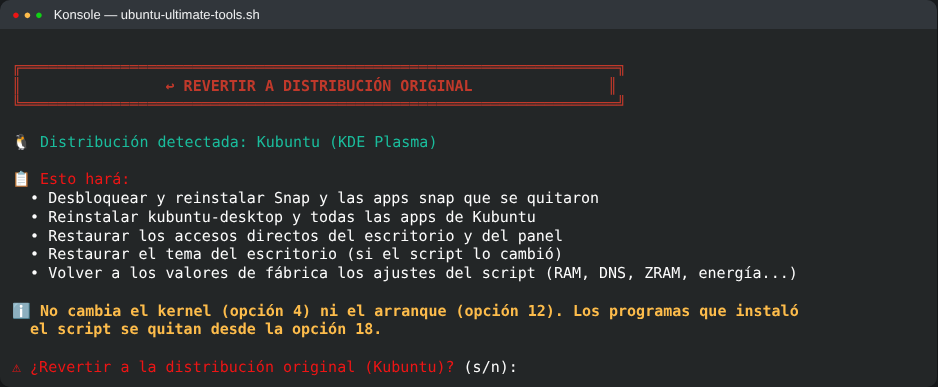
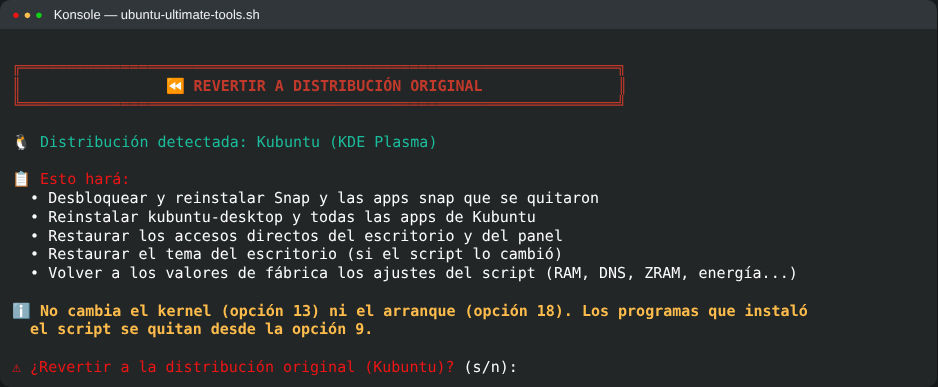
Menú principal agrupado y alineación de todos los menús (#16)
* Renombrar a Ubuntu Ultimate Tools, con migración automática

- El script pasa a llamarse ubuntu-ultimate-tools.sh (ejecutable) y el
  banner, la ayuda, el registro y la documentación usan el nuevo nombre.
- Los archivos de configuración internos también se renombran
  (~/.local/share, /etc/ubuntu-ultimate-tools, sysctl, BBR, DNS, Wi-Fi,
  scripts y fondo de GRUB, copia de /etc/default/grub).
- migrate_from_kubuntu_lite pasa una sola vez la configuración de las
  versiones anteriores ("Kubuntu Lite") a los nombres nuevos, sin cambiar
  su contenido: reescribe los filtros de GRUB que llevan las rutas dentro,
  actualiza la ruta del fondo y regenera el menú si hizo falta. Si no hay
  nada viejo, no hace nada.

* Compatibilidad con todos los sabores de Ubuntu y seguro al eliminar apps

- Detecta el sabor y el escritorio al iniciar (Ubuntu completo o mínimo,
  Kubuntu, Xubuntu, Lubuntu, MATE, Budgie, Cinnamon, Unity, Studio,
  Edubuntu, Kylin y Server) por su meta-paquete o, si se quitó, por su
  escritorio. El banner muestra lo detectado.
- Listas de apps para eliminar por escritorio, sacadas de los
  meta-paquetes reales de cada sabor y sin piezas del escritorio (gestor
  de archivos, configuración, panel, sesión, ventanas, red, sonido,
  energía, notificaciones, portales, actualizaciones). Se quitan de la
  lista de Kubuntu las librerías qml-module-*, que arrastraban Plasma.
- Seguro de dependencias: antes de eliminar se simula qué quitaría apt; si
[…]

Changed region(s): [[0.3092, 0.7752, 0.8657, 0.8682], [0.1546, 0.186, 0.5256, 0.2481], [0.6493, 0.186, 0.6802, 0.2481]]

diff --git a/README.md b/README.md
@@ -50,7 +50,7 @@ sin importar el sabor. Al iniciar **detecta qué sabor y qué escritorio tienes*
 | **Ubuntu Server** | sin escritorio | Kernel, GRUB, red, RAM, Snap y actualizaciones |
 
 El sabor se detecta por su meta-paquete (`kubuntu-desktop`, `xubuntu-desktop`...). Si lo quitaste con la
-opción 2, se reconoce por su escritorio. Las opciones que no aplican a tu escritorio lo explican y no hacen nada.
+opción 11, se reconoce por su escritorio. Las opciones que no aplican a tu escritorio lo explican y no hacen nada.
 
 ---
 
@@ -159,11 +159,11 @@ Shift derecho + F12 oculta el panel · Shift izquierdo + F2 pausa/reanuda la gra
 - **Proton-GE**: la última versión se descarga de la página oficial del proyecto, se comprueba que llegó
   entera (suma SHA-512) y se instala en `compatibilitytools.d`. Se elige por juego en
   *Propiedades → Compatibilidad*. Funciona también con Steam de Flatpak.
-- Se quitan desde la opción 18: Steam en "Quitar programas" y Proton-GE en "Quitar Proton-GE".
+- Se quitan desde la opción 9: Steam en "Quitar programas" y Proton-GE en "Quitar Proton-GE".
 
 ---
 
-## 🔧 Arranque: reparar y personalizar GRUB/EFI (opción 12)
+## 🔧 Arranque: reparar y personalizar GRUB/EFI (opción 18)
 
 Todo lo hace el propio script, sin instalar programas externos.
 
@@ -192,7 +192,7 @@ ejecuta `<script>_ubuntu_ultimate_tools`, que lo llama y quita las entradas de l
 (sin entradas duplicadas) hasta que se vuelva a usar la opción. No se pueden ocultar todas las
 entradas de tu sistema.
 
-Si usaste **Grub Customizer**, la opción 9 → 7 deja `/etc/grub.d` como lo instala Ubuntu: devuelve
+Si usaste **Grub Customizer**, la opción 18 → 9 → 7 deja `/etc/grub.d` como lo instala Ubuntu: devuelve
 cada script a su nombre, quita sus `*_proxy` (que duplican entradas) y guarda antes una copia
 completa en `/etc/grub.d.antes-de-deshacer-grub-customizer-<fecha>`.
 
@@ -206,9 +206,9 @@ La reparación automática desde Live USB:
 
 #### Prepárate antes de necesitarlo
 
-Con el sistema funcionando, usa la opción 12 → 14 y la 12 → 15. Son tres pasos:
+Con el sistema funcionando, usa la opción 18 → 14 y la 18 → 15. Son tres pasos:
 
-1. **Tarjeta de rescate (12 → 14).** Calcula los comandos exactos para tu PC: el nombre que GRUB le da a
+1. **Tarjeta de rescate (18 → 14).** Calcula los comandos exactos para tu PC: el nombre que GRUB le da a
    tu partición (por ejemplo `(hd0,gpt2)`), su UUID y las rutas del kernel. Funciona con ext4, btrfs y
    `/boot` en partición aparte.
    - **Sácale una foto con el celular**: cuando aparece `grub>` no puedes abrir archivos de tu disco.
@@ -217,7 +217,7 @@ Con el sistema funcionando, usa la opción 12 → 14 y la 12 → 15. Son tres pa
    - Se actualiza sola cada vez que el script cambia GRUB.
 2. **Pendrive.** En esa misma opción, el script copia **la tarjeta y el propio script** al pendrive que
    elijas. Como el repositorio es privado, desde un Live USB no se podría descargar sin iniciar sesión.
-3. **Arranque de respaldo UEFI (12 → 15).** El firmware guarda una lista de sistemas para arrancar, y
+3. **Arranque de respaldo UEFI (18 → 15).** El firmware guarda una lista de sistemas para arrancar, y
    a veces la pierde: al actualizar la BIOS, por un reseteo o al cambiar el disco de PC. Entonces la PC
    no arranca o va directo a Windows, aunque Ubuntu esté bien.
    - El script copia el arranque de Ubuntu a la ruta de emergencia `EFI/BOOT/BOOTX64.EFI`, la que el
@@ -226,7 +226,7 @@ Con el sistema funcionando, usa la opción 12 → 14 y la 12 → 15. Son tres pa
    - Funciona con Secure Boot y se mantiene al día con cada actualización (un hook de apt).
    - Si esa ruta la usa Windows, no se toca. Si la usaba otro sistema, se guarda una copia y al
      quitarlo vuelve como estaba.
-   - La reparación completa (12 → 3) también lo ofrece.
+   - La reparación completa (18 → 3) también lo ofrece.
 
 Ten a mano también un **USB de instalación de tu sabor de Ubuntu** (el Live USB).
 
@@ -241,7 +241,7 @@ Ten a mano también un **USB de instalación de tu sabor de Ubuntu** (el Live US
 
 ```bash
 cd /media/$USER/PENDRIVE
-bash ubuntu-ultimate-tools.sh      # opción 12 → 10
+bash ubuntu-ultimate-tools.sh      # opción 18 → 10
 ```
 
 - Se usa `bash ubuntu-ultimate-tools.sh` y no `./ubuntu-ultimate-tools.sh` porque los pendrives FAT32/exFAT
@@ -254,14 +254,14 @@ bash ubuntu-ultimate-tools.sh      # opción 12 → 10
 
 ## ☑ Selección con barra espaciadora
 
-En "Eliminar aplicaciones" (opción 1) y "Software opcional" (opción 8) las listas usan casillas:
+En "Eliminar aplicaciones" (opción 3) y "Software opcional" (opción 6) las listas usan casillas:
 **Espacio** marca o desmarca, **flechas** para moverse, **Enter** para aceptar. La lista de eliminación
 solo muestra las apps instaladas, y la de software marca las que ya tienes. Si `whiptail` no está
 disponible, se vuelve a la selección escribiendo números.
 
 ---
 
-## ↩ Deshacer optimizaciones (opción 18)
+## ↩ Deshacer optimizaciones (opción 9)
 
 - **Quitar programas instalados por el script**, con casillas. El script anota en
   `~/.local/share/ubuntu-ultimate-tools/paquetes-instalados.txt` solo los programas que **no tenías antes**;
@@ -276,7 +276,7 @@ disponible, se vuelve a la selección escribiendo números.
   flatpak-builder de una vez, con doble confirmación y respaldos antes. Tus proyectos, tus claves de firma y
   tus apps Flatpak no se tocan.
 - **Restaurar todos los ajustes** de una vez, sin desinstalar programas. "Revertir a
-  distribución original" (opción 9) también lo hace.
+  distribución original" (opción 10) también lo hace.
 
 ---
 
@@ -284,7 +284,7 @@ En todos los menús y submenús, **0** vuelve al menú anterior (en el principal
 
 ---
 
-## 🖥 Información del sistema y hardware (opción 19)
+## 🖥 Información del sistema y hardware (opción 2)
 
 | | Opción | Qué muestra |
 |---|---|---|
@@ -312,11 +312,11 @@ En todos los menús y submenús, **0** vuelve al menú anterior (en el principal
 - Los `.deb` externos (VSCode, Chrome, Discord) se descargan en paralelo.
 - `apt update` se ejecuta una vez por sesión (o se omite si el sistema lo hizo hace menos de 30 minutos).
 - Cambiar de kernel no regenera GRUB: se usa `GRUB_DEFAULT=saved` + `grub-set-default`.
-- La opción 2 permite desactivar la indexación de manuales (`man-db`), lo más lento de cada instalación.
+- La opción 11 permite desactivar la indexación de manuales (`man-db`), lo más lento de cada instalación.
 
 ---
 
-## ⚡ Cambio de kernel
+## ⚡ Cambio de kernel (opción 13)
 
 | Opción | Kernel | Notas |
 |--------|--------|-------|
@@ -340,12 +340,12 @@ Dentro de la opción 3:
 
 ---
 
-## ↩ Revertir a distribución original (opción 9)
+## ↩ Revertir a distribución original (opción 10)
 
 Deja tu Ubuntu como vino de fábrica, sea cual sea el sabor (muestra cuál detectó antes de empezar):
 
 - Reinstala el meta-paquete de tu sabor **con todas sus aplicaciones** (`kubuntu-desktop`, `xubuntu-desktop`,
-  `ubuntu-desktop-minimal`...). Si lo quitaste con la opción 2, recuerda cuál era: un Ubuntu mínimo no se
+  `ubuntu-desktop-minimal`...). Si lo quitaste con la opción 11, recuerda cuál era: un Ubuntu mínimo no se
   convierte en uno completo.
 - Reinstala todo lo que el script eliminó (incluidas dependencias); la lista está en
   `~/.local/share/ubuntu-ultimate-tools/paquetes-eliminados.txt`.
@@ -358,12 +358,12 @@ Deja tu Ubuntu como vino de fábrica, sea cual sea el sabor (muestra cuál detec
 - Vuelve a fábrica todos los ajustes (RAM, DNS, ZRAM, energía, indexador...).
 - En Ubuntu Server hace lo que aplica: paquetes, Snap y ajustes.
 
-No cambia el kernel (opción 4) ni el arranque (opción 12). Los programas que instaló el script se quitan
-desde la opción 18.
+No cambia el kernel (opción 13) ni el arranque (opción 18). Los programas que instaló el script se quitan
+desde la opción 9.
 
 ---
 
-## 📦 Software opcional (opción 8)
+## 📦 Software opcional (opción 6)
 
 | Programa | Para qué sirve | Origen |
 |----------|----------------|--------|
@@ -406,9 +406,9 @@ cd mi-proyecto
 
 - **NDK y CMake** (proyectos con C/C++): Gradle baja solo la versión exacta que pide el proyecto,
   porque el script ya aceptó las licencias del SDK.
-- **Actualizar**: vuelve a usar la opción 8 → Compilar APK y se actualiza el SDK.
-- **Quitar**: opción 18 → 7 (Android Studio y SDK; tus claves de firma en `~/.android` no se tocan)
-  y 18 → 8 (SDK de Flatpak).
+- **Actualizar**: vuelve a usar la opción 6 → Compilar APK y se actualiza el SDK.
+- **Quitar**: opción 9 → 7 (Android Studio y SDK; tus claves de firma en `~/.android` no se tocan)
+  y 9 → 8 (SDK de Flatpak).
 
 ### 🐳 Compilar con Docker
 
@@ -424,7 +424,7 @@ docker run --rm -v "$PWD":/home/source mi-compilador  # la ruta la indica el REA
 - Para usar `docker` sin `sudo`, el script ofrece sumar tu usuario al grupo `docker` (avisa que ese grupo
   equivale a ser administrador).
 - Si había configuración de un Docker anterior, se guarda un respaldo antes de instalar.
-- **Quitar** (opción 18 → 9): solo los programas, conservando imágenes y volúmenes; o la **eliminación
+- **Quitar** (opción 9 → 9): solo los programas, conservando imágenes y volúmenes; o la **eliminación
   nuclear**, que borra todo (datos, configuración y grupo) después de guardar un respaldo de la
   configuración y, si quieres, de tus volúmenes.
 
@@ -437,7 +437,7 @@ Android (`~/.android`). Nunca se pisa un respaldo anterior.
 
 ---
 
-## 🗑 Aplicaciones que puedes eliminar (opción 1)
+## 🗑 Aplicaciones que puedes eliminar (opción 3)
 
 La lista sale de los **meta-paquetes reales de cada sabor**, con dos filtros:
 
@@ -463,13 +463,13 @@ graph LR
     E --> F[Reiniciar]
 ```
 
-Si algo no te convence, la opción 18 deshace optimizaciones y quita programas, y la 9 vuelve a la distribución original.
+Si algo no te convence, la opción 9 deshace optimizaciones y quita programas, y la 10 vuelve a la distribución original.
 
 ---
 
 ## 🛡 Seguridad
 
-- ✅ **Reversible**: cada ajuste se puede deshacer (opción 18) y todo se puede revertir (opción 9).
+- ✅ **Reversible**: cada ajuste se puede deshacer (opción 9) y todo se puede revertir (opción 10).
 - ✅ **Confirmaciones**: cada acción importante pide confirmación y muestra qué se va a cambiar.
 - ✅ **Seguro de dependencias**: nunca quita una app que arrastre piezas esenciales del sistema.
 - ✅ **Copias antes de tocar el arranque**: `/etc/default/grub` se guarda antes del primer cambio, y `/etc/grub.d` entero antes de deshacer Grub Customizer.
@@ -499,7 +499,7 @@ Firefox y la tienda Snap se eliminarán. En Ubuntu `apt install firefox` solo in
 
 **¿Cómo vuelvo atrás?**
 
-Para quitar ajustes o programas sueltos, usa la opción 18. Para volver del todo, la opción 9: reinstala el meta-paquete de tu sabor con todas sus apps y restaura Snap.
+Para quitar ajustes o programas sueltos, usa la opción 9. Para volver del todo, la opción 10: reinstala el meta-paquete de tu sabor con todas sus apps y restaura Snap.
 
 **¿Usaba la versión anterior, "Kubuntu Lite"?**
 

diff --git a/screenshots/README.md b/screenshots/README.md
@@ -13,63 +13,57 @@ sabor y el escritorio detectados, y las listas muestran solo lo que está instal
 
 ---
 
-## Eliminar aplicaciones (opción 1) — lista con casillas
+## Información del sistema y hardware (opción 2)
 
-![Eliminar aplicaciones (opción 1) — lista con casillas](02-eliminar-apps.png)
-
----
-
-## Optimizar GPU (opción 3)
-
-![Optimizar GPU (opción 3)](03-gpu.png)
+![Información del sistema y hardware (opción 2)](14-informacion-sistema.png)
 
 ---
 
-## Optimizar kernel (opción 4)
+## Resumen rápido del sistema (opción 2 → 1)
 
-![Optimizar kernel (opción 4)](04-kernel.png)
-
----
-
-## Arranque: reparar y personalizar GRUB/EFI (opción 12)
-
-![Arranque: reparar y personalizar GRUB/EFI (opción 12)](05-arranque-grub.png)
+![Resumen rápido del sistema (opción 2 → 1)](15-resumen-sistema.png)
 
 ---
 
-## Tarjeta de rescate de tu PC (opción 12 → 14)
+## Eliminar aplicaciones (opción 3) — lista con casillas
 
-![Tarjeta de rescate de tu PC (opción 12 → 14)](17-tarjeta-rescate.png)
-
----
-
-## Personalizar el menú de GRUB (opción 12 → 9)
-
-![Personalizar el menú de GRUB (opción 12 → 9)](06-personalizar-grub.png)
+![Eliminar aplicaciones (opción 3) — lista con casillas](02-eliminar-apps.png)
 
 ---
 
-## Ocultar entradas del menú de GRUB (opción 12 → 9 → 1)
+## Quitar accesos directos (opción 5)
 
-![Ocultar entradas del menú de GRUB (opción 12 → 9 → 1)](07-ocultar-entradas-grub.png)
-
----
-
-## Instalar software opcional (opción 8) — lista con casillas
-
-![Instalar software opcional (opción 8) — lista con casillas](08-software-opcional.png)
+![Quitar accesos directos (opción 5)](09-accesos-directos.png)
 
 ---
 
-## Revertir a distribución original (opción 9)
+## Instalar software opcional (opción 6) — lista con casillas
 
-![Revertir a distribución original (opción 9)](16-revertir.png)
+![Instalar software opcional (opción 6) — lista con casillas](08-software-opcional.png)
 
 ---
 
-## Quitar accesos directos (opción 14)
+## Deshacer optimizaciones (opción 9)
 
-![Quitar accesos directos (opción 14)](09-accesos-directos.png)
+![Deshacer optimizaciones (opción 9)](13-deshacer.png)
+
+---
+
+## Revertir a distribución original (opción 10)
+
+![Revertir a distribución original (opción 10)](16-revertir.png)
+
+---
+
+## Optimizar GPU (opción 12)
+
+![Optimizar GPU (opción 12)](03-gpu.png)
+
+---
+
+## Optimizar kernel (opción 13)
+
+![Optimizar kernel (opción 13)](04-kernel.png)
 
 ---
 
@@ -91,18 +85,24 @@ sabor y el escritorio detectados, y las listas muestran solo lo que está instal
 
 ---
 
-## Deshacer optimizaciones (opción 18)
+## Arranque: reparar y personalizar GRUB/EFI (opción 18)
 
-![Deshacer optimizaciones (opción 18)](13-deshacer.png)
-
----
-
-## Información del sistema y hardware (opción 19)
-
-![Información del sistema y hardware (opción 19)](14-informacion-sistema.png)
+![Arranque: reparar y personalizar GRUB/EFI (opción 18)](05-arranque-grub.png)
 
 ---
 
-## Resumen rápido del sistema (opción 19 → 1)
+## Personalizar el menú de GRUB (opción 18 → 9)
 
-![Resumen rápido del sistema (opción 19 → 1)](15-resumen-sistema.png)
+![Personalizar el menú de GRUB (opción 18 → 9)](06-personalizar-grub.png)
+
+---
+
+## Ocultar entradas del menú de GRUB (opción 18 → 9 → 1)
+
+![Ocultar entradas del menú de GRUB (opción 18 → 9 → 1)](07-ocultar-entradas-grub.png)
+
+---
+
+## Tarjeta de rescate de tu PC (opción 18 → 14)
+
+![Tarjeta de rescate de tu PC (opción 18 → 14)](17-tarjeta-rescate.png)
